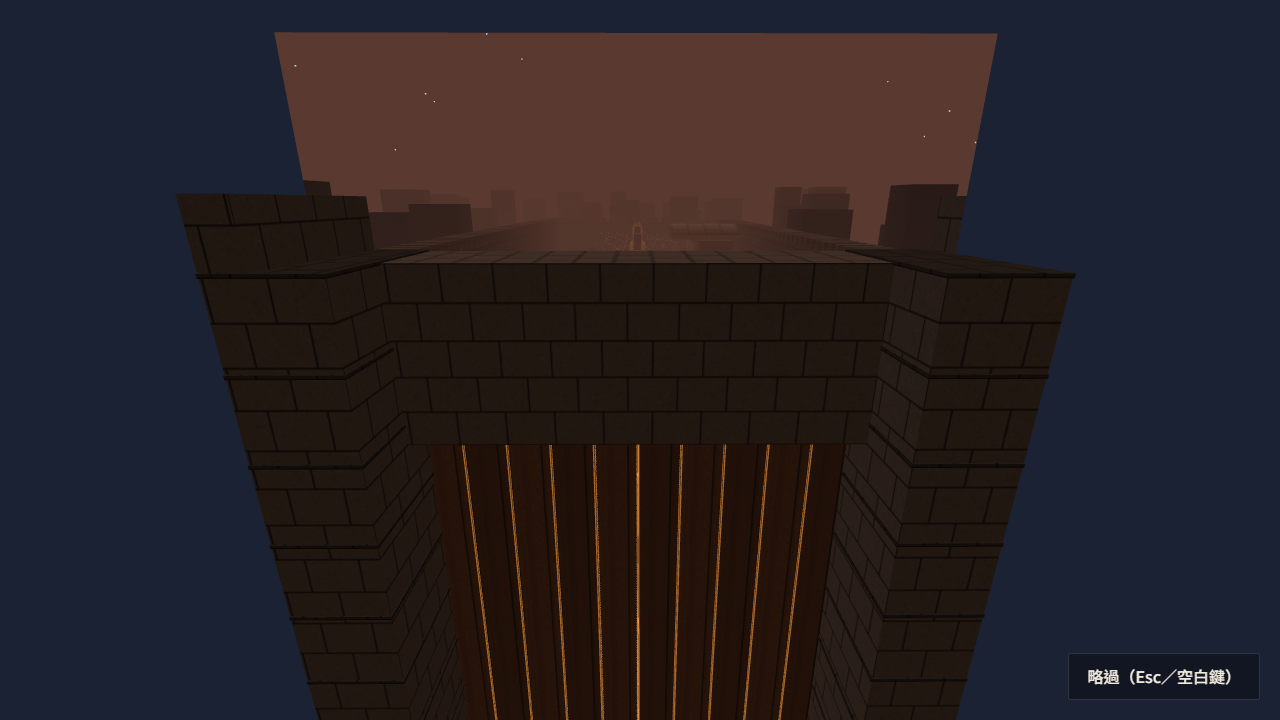
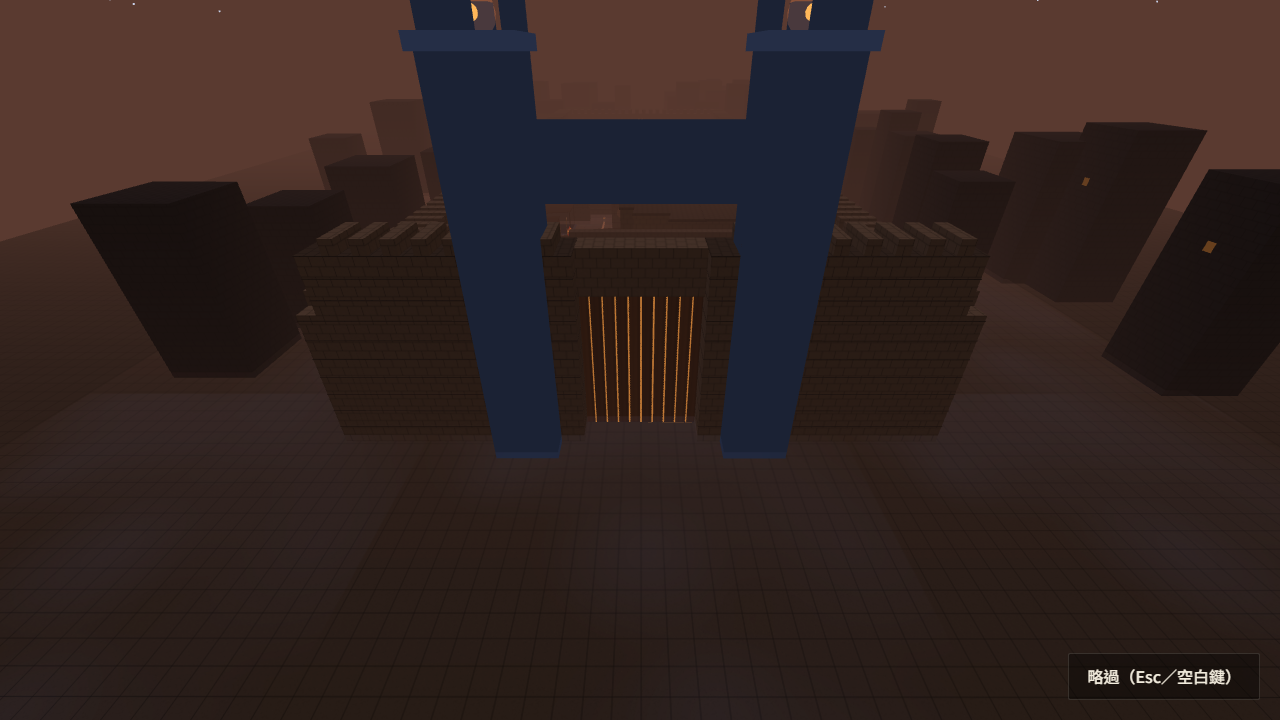
鏡頭動畫修貼牆：路線移到街道中線並拉高到約 12 公尺俯看街面，城外越過門頂、最後降到木馬前；整段每 3 秒抽查無貼牆（畫面，總控審）

diff --git a/docs/process/agent-notes/view.md b/docs/process/agent-notes/view.md
@@ -267,6 +267,8 @@
   - 量時間（程式玩家）：按開始到走出木馬 36～48 秒（序約 21 秒、聽 4 秒、敲 9 秒、走 5～12 秒）。
   - ?intro=cam：序之後放約 26 秒鏡頭（camRoute 全從關卡資料算：城門外越過門頂 → 各區 botRoute 倒著走 → 停在木馬前 9 公尺、從落點那側看），黃昏轉夜；Esc／空白鍵跳過；localStorage 'troy-intro-cam-seen' 記住看過。幀數：演出中 131～209、腹中遊戲 91～111（RTX 3060、1280×720）。
   - 第二段已接（總控轉規則 b6a8afe 約定）：失敗畫面 `#failWhy` 先顯示 `g.failLine`，null 時退回 `failReason`；暗示階梯那行（`#failHint`）照舊。① 提示叫回不用改：`aidTarget()` 本來就讀 `game.visualAid`；設定選單「視覺輔助」選強制開／關時 `aidTarget()` 直接回 1／0，不會叫回（和規則的設計一致）。
+  - 鏡頭動畫修貼牆（總控 11/28 審查）：botRoute 是貼影子走的路，照走會貼牆。改成三件事：街上路線每 1.5 公尺取一點，往兩側探 9 公尺找牆（`low` 的不算），移到中線，只有一側有牆就離牆 3 公尺；前後 5 點平均後每 3 公尺留一點；高度 `CAM_EYE` 12 公尺、往前看 `CAM_AHEAD` 0.08 的街面。城門外兩點標 `fixed`，從 20 公尺高越過門頂；終點也 `fixed`，在 3.2 公尺高、離木馬 9 公尺。
+    - 試過的高度：3.6 公尺在窄巷裡整片都是牆；5.2～6.2 公尺仍有 3 格一半以上是牆。原因是城內牆高 4 公尺、城牆 8 公尺，街又窄又彎。12 公尺俯看時，街景、火盆、衛兵都看得到。用 `intro-check.mjs camseq` 每 3 秒拍一張檢查。幀數：演出中 144～160。
   - 遙測 `fail` 事件多帶玩家 `x`、`z`（四捨五入到 0.1），給驗收的試玩摘要工具。無頭實測：被抓時 failLine「奧德修斯在火光照得到的地方移動，被衛兵察覺了」照樣顯示、fail 事件 `{code, reason, zone, x: 28.6, z: 12}`、序跳過叫 `storyCueStop(0.3)`。
 - （已由規則角色依模式切換）規則層提示文字仍寫「節奏斷掉的瞬間」（例如暗殺教學），不中斷模式下要改，屬規則角色。
 - 要人眼確認：邊緣白閃亮度、高度警覺暈和既有起疑暈（`#edge`）疊在一起會不會太橘、追殺衝刺速度線的量、火光基準亮度（FIRE_BASE 0.35 讓平常比以前暗）。

diff --git a/docs/process/opening-2026-11-28/README.md b/docs/process/opening-2026-11-28/README.md
@@ -8,11 +8,12 @@
 | `1-序-黑底一次一句.png` | 序：黑底，一次只出一句，每句配一段聲音 |
 | `2-腹中-跟著他敲.png` | 腹中第二步：校準搬進腹中，看起來是在跟著同伴敲木板 |
 | `3-腹中-踩著它走到暗門.png` | 腹中第三步：預告圈和 4 格計數 |
-| `cam-1-越過城門.png`、`cam-2-街上.png`、`cam-3-停在木馬前.png` | 鏡頭動畫（`?intro=cam`）：黃昏從城門外越過門頂、沿街走、天黑時停在木馬前 |
+| `cam-1-越過城門.png`、`cam-2-街上.png`、`cam-3-停在木馬前.png` | 鏡頭動畫（`?intro=cam`）：黃昏從城門外高處越過門頂，在約 12 公尺高的地方俯看街道和衛兵，天黑時降到木馬前。11/28 下午重拍：原本 2.4 公尺高、照 botRoute 走會貼著牆，改成路線移到兩面牆的中線再拉高 |
 
 量測：
 - `intro-time.mjs`：從按「開始」到走出木馬要多久，由程式玩家操作，序不按、讓它自己播。結果約 36～48 秒，低於 90 秒的目標。
 - `fail-check.mjs`：失敗畫面只顯示 failLine 一句、遙測 fail 事件帶 x 和 z、跳過序時叫 storyCueStop(0.3)。
+- `intro-check.mjs camseq`：鏡頭動畫每 3 秒拍一張，用來自己檢查整段有沒有貼牆。
 - `intro-check.mjs`：檢查四種情況，分別是舊流程開關、短展示、新流程的 Esc 跳過、鏡頭動畫（截圖、幀數、只出現一次）。
 
 用法：`ROOT=<prototypes 的路徑> node intro-time.mjs <輸出資料夾>`。
